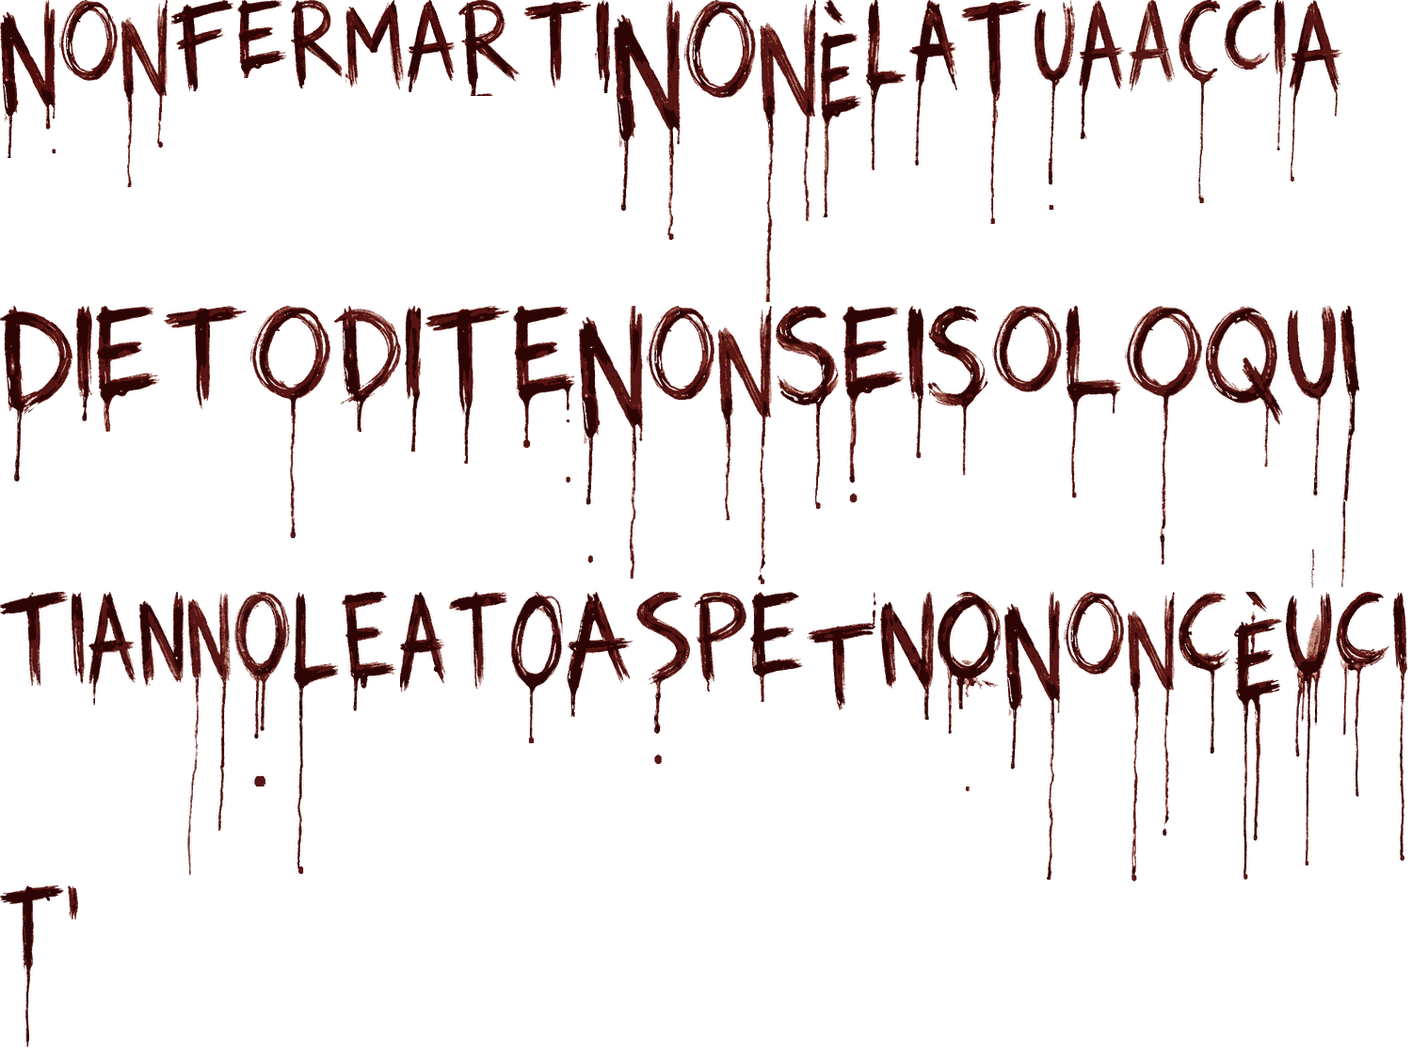
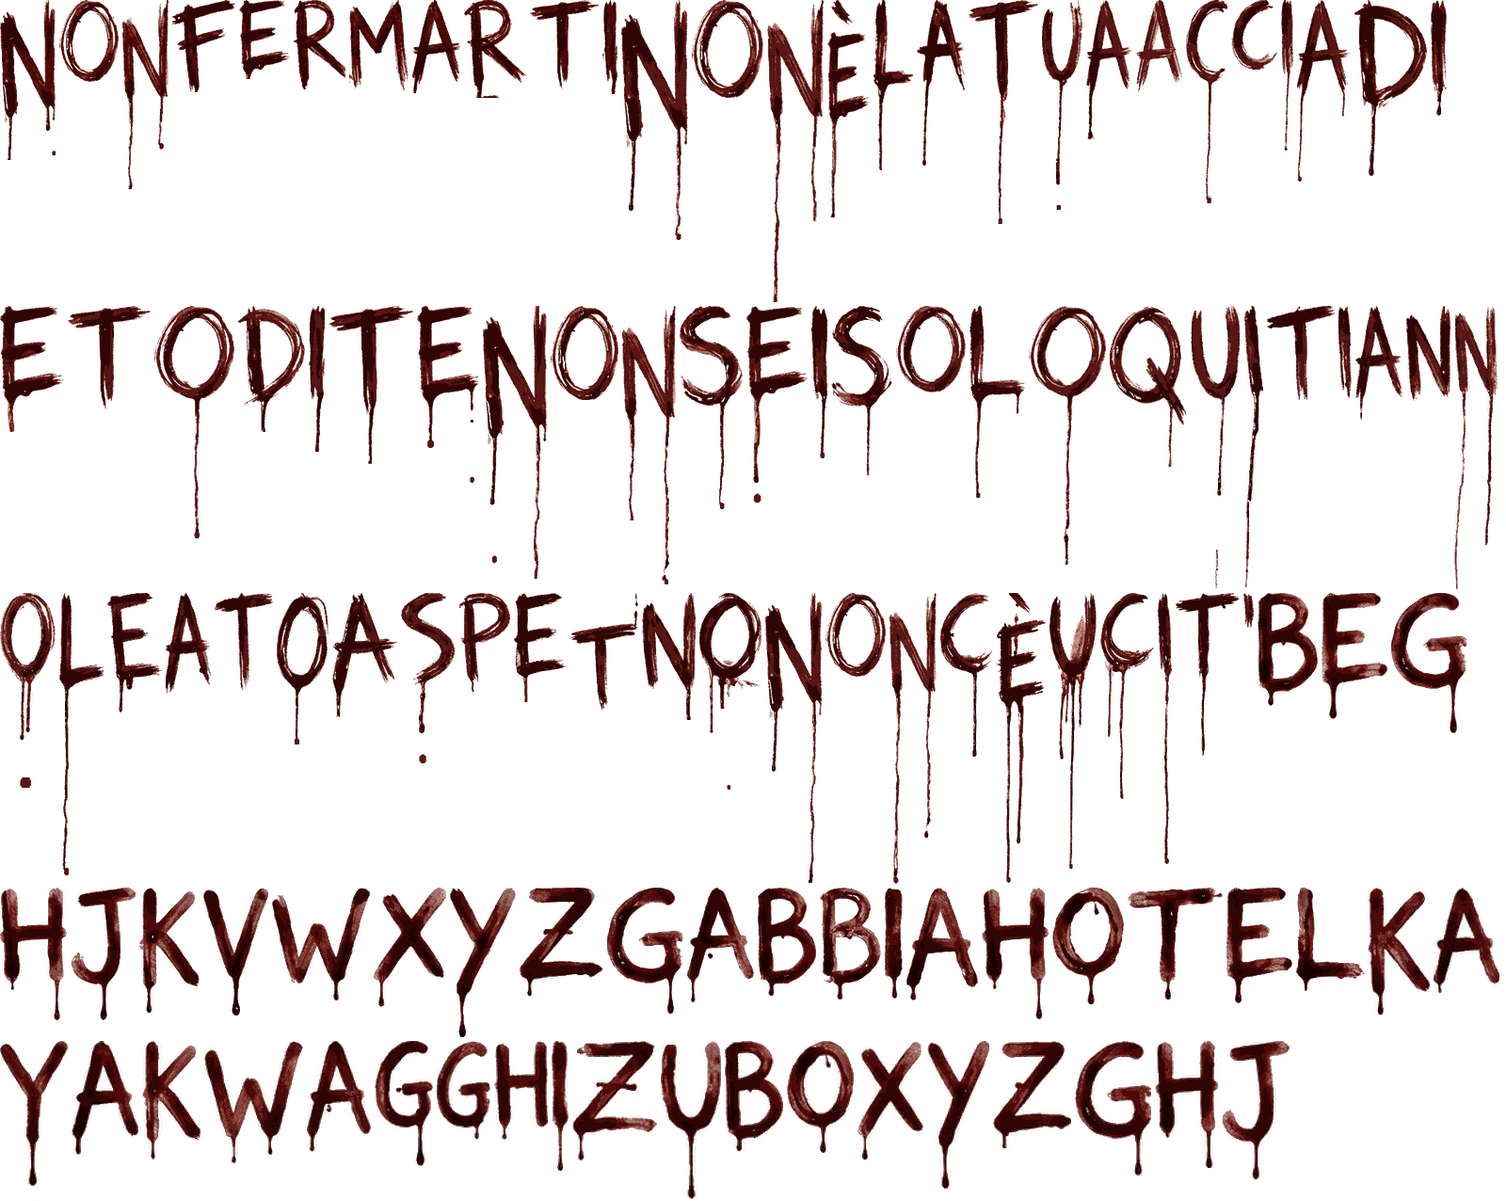
Lettere vere anche per B G H J K V W X Y Z (collage di Gemini): nessuna lettera di riserva
Claude-Session: https://claude.ai/code/session_014dApnh5cQuMdZvTWDcVASP

Changed region(s): [[0.0, 0.183, 1.0, 1.0], [0.0, 0.0, 0.9813, 0.2135], [0.0, 0.4269, 0.0307, 0.4574]]

diff --git a/js/world/bloodfont.js b/js/world/bloodfont.js
@@ -1,9 +1,9 @@
 // FONT DI SANGUE: scrive qualsiasi frase (nome incluso) con lettere VERE di sangue (ritagliate dalle scritte di Gemini della versione standard, con le loro colature naturali,
-// assets/tex/blood_real.png) e, per le lettere che mancano (B G H J K V W X Y Z), con l'alfabeto di riserva assets/tex/blood_font.png. Ogni lettera ha piu' varianti: si sceglie a caso (stabile per ogni testo).
+// assets/tex/blood_real.png) e, per le lettere che mancano (solo la virgola e i simboli), con l'alfabeto di riserva assets/tex/blood_font.png. Ogni lettera ha piu' varianti: si sceglie a caso (stabile per ogni testo).
 // bloodText('NOME,\nNON FERMARTI') -> { tex, aspect }: texture di canvas pronta per writingDecals ({ text }). Per rifare l'atlante: python3 tools/blood_real_glyphs.py
 import * as THREE from 'three';
 const A = {"A":[0,0,98,123,4,104],"B":[140,0,82,111,4,106],"C":[280,0,92,111,4,106],"D":[420,0,87,131,4,104],"E":[560,0,82,138,4,102],"F":[700,0,84,152,4,104],"G":[840,0,102,134,4,105],"H":[0,176,87,132,4,105],"I":[140,176,29,124,4,101],"J":[280,176,88,113,4,107],"K":[420,176,85,136,4,105],"L":[560,176,80,108,4,103],"M":[700,176,104,131,4,103],"N":[840,176,86,124,4,106],"O":[0,352,97,119,4,105],"P":[140,352,82,138,4,102],"Q":[280,352,105,145,4,110],"R":[420,352,91,135,4,106],"S":[560,352,81,147,4,110],"T":[700,352,99,111,4,101],"U":[840,352,88,130,4,104],"V":[0,528,97,130,4,101],"W":[140,528,131,137,4,104],"X":[280,528,89,145,4,103],"Y":[420,528,91,133,4,101],"Z":[560,528,95,153,4,105],"À":[700,528,96,155,4,131],"È":[840,528,79,162,4,128],"É":[0,704,79,154,4,127],"Ì":[140,704,39,136,4,128],"Ò":[280,704,97,167,4,134],"Ù":[420,704,88,131,4,127],"'":[560,704,30,48,4,25],",":[700,704,33,50,4,26],".":[840,704,33,37,4,23],"?":[0,880,72,118,4,109],"!":[140,880,30,115,4,107],"-":[280,880,68,27,4,22],":":[420,880,32,81,4,68],"0":[560,880,85,117,4,103],"1":[700,880,47,126,4,100],"2":[840,880,82,122,4,103],"3":[0,1056,78,123,4,103],"4":[140,1056,81,127,4,100],"5":[280,1056,78,118,4,103],"6":[420,1056,76,127,4,108],"7":[560,1056,80,123,4,97],"8":[700,1056,75,127,4,107],"9":[840,1056,75,126,4,105]};   // riserva: carattere -> [x, y, w, h, top, base]
-const REAL = {"N":[[0,0,59,168,107],[129,0,49,199,103],[652,0,71,255,128],[807,0,60,321,124],[615,325,68,290,121],[763,325,57,296,120],[148,629,47,101,105],[199,629,46,301,98],[1067,629,59,306,119],[1198,629,50,308,116]],"O":[[63,0,62,86,84],[727,0,76,104,100],[266,325,85,247,99],[687,325,72,100,98],[1054,325,74,92,96],[1195,325,82,275,99],[249,629,59,207,96],[543,629,55,161,100],[996,629,67,212,96],[1130,629,64,88,96]],"F":[[182,0,66,97,97]],"E":[[252,0,53,83,83],[102,325,68,134,96],[545,325,66,188,99],[895,325,65,209,99],[363,629,58,127,99],[797,629,56,117,92]],"R":[[309,0,54,94,94],[487,0,65,102,102]],"M":[[367,0,62,95,101]],"A":[[433,0,50,98,98],[966,0,51,176,98],[1146,0,49,148,101],[1199,0,49,98,101],[1370,0,57,193,109],[94,629,50,121,101],[425,629,48,107,102],[602,629,70,133,98],[935,629,57,136,107]],"T":[[556,0,72,94,107],[1021,0,74,238,106],[174,325,88,110,103],[451,325,90,168,106],[0,629,72,100,104],[477,629,62,103,105],[857,629,74,126,124],[0,941,68,172,100]],"I":[[632,0,16,99,99],[1353,0,13,160,96],[81,325,17,123,96],[430,325,17,155,96],[964,325,17,162,99],[1424,325,20,299,97],[76,629,14,98,92],[1480,629,15,286,96]],"È":[[871,0,45,231,129],[1310,629,52,306,122]],"L":[[920,0,42,181,98],[1132,325,59,204,101],[312,629,47,300,102]],"U":[[1099,0,43,223,97],[1367,325,53,300,97],[1366,629,49,291,101]],"C":[[1252,0,44,216,99],[1300,0,49,74,94],[1252,629,54,172,94],[1419,629,57,218,94]],"D":[[0,325,77,187,103],[355,325,71,134,100]],"S":[[824,325,67,216,104],[985,325,65,180,106],[676,629,57,183,95]],"Q":[[1281,325,82,171,100]],"P":[[737,629,56,106,102]],"'":[[72,941,11,37,112]]};   // lettere vere: carattere -> [[x, y, w, h, base], ...] (altezza maiuscola = 100)
+const REAL = {"N":[[0,0,59,170,108],[130,0,49,201,104],[660,0,71,255,128],[815,0,60,321,124],[513,325,68,290,121],[661,325,57,296,120],[1494,325,47,101,105],[1545,325,46,301,98],[813,630,60,308,120],[945,630,50,309,117]],"O":[[63,0,63,87,85],[735,0,76,104,100],[164,325,85,247,99],[585,325,72,100,98],[952,325,74,92,96],[1093,325,82,275,99],[0,630,59,207,96],[294,630,55,161,100],[743,630,66,209,95],[877,630,64,89,97],[1118,943,76,124,97],[836,1106,71,119,95]],"F":[[183,0,67,98,98]],"E":[[254,0,54,84,84],[0,325,68,134,96],[443,325,66,188,99],[793,325,65,209,99],[114,630,58,127,99],[546,630,55,116,91],[1404,630,70,134,97],[1303,943,70,123,99]],"R":[[312,0,55,95,95],[493,0,66,104,104]],"M":[[371,0,63,96,102]],"A":[[438,0,51,99,99],[974,0,51,176,98],[1154,0,49,148,101],[1207,0,49,98,101],[1378,0,57,193,109],[1440,325,50,121,101],[176,630,48,107,102],[353,630,69,132,97],[682,630,57,135,106],[730,943,71,122,99],[963,943,76,120,103],[1523,943,70,112,100],[76,1106,71,121,100],[326,1106,68,118,101]],"T":[[563,0,73,95,108],[1029,0,74,238,106],[72,325,88,110,103],[349,325,90,168,106],[1346,325,72,100,104],[228,630,62,103,105],[605,630,73,124,123],[1249,630,68,173,101],[1198,943,101,119,103]],"I":[[640,0,16,100,100],[1361,0,13,160,96],[1520,0,17,123,96],[328,325,17,155,96],[862,325,17,162,99],[1322,325,20,299,97],[1422,325,14,98,92],[1230,630,15,288,96],[940,943,19,118,95],[586,1106,18,138,94]],"È":[[879,0,45,231,129],[1058,630,53,308,123]],"L":[[928,0,42,181,98],[1030,325,59,204,101],[63,630,47,300,102],[1377,943,72,110,101]],"U":[[1107,0,43,223,97],[1265,325,53,300,97],[1115,630,50,293,102],[702,1106,64,168,97]],"C":[[1260,0,44,216,99],[1308,0,49,74,94],[999,630,55,174,94],[1169,630,57,219,94]],"D":[[1439,0,77,187,103],[253,325,71,134,100]],"S":[[722,325,67,216,104],[883,325,65,180,106],[426,630,57,181,94]],"Q":[[1179,325,82,171,100]],"P":[[487,630,55,105,101]],"'":[[1321,630,11,37,113]],"B":[[1336,630,64,120,99],[805,943,62,115,99],[871,943,65,119,100],[770,1106,62,117,100]],"G":[[1478,630,81,149,102],[645,943,81,134,101],[398,1106,62,133,96],[464,1106,57,104,98],[1142,1106,81,143,104]],"H":[[0,943,71,141,101],[1043,943,71,140,100],[525,1106,57,105,96],[1227,1106,68,135,100]],"J":[[75,943,69,141,99],[1299,1106,71,147,101]],"K":[[148,943,64,133,103],[1453,943,66,135,104],[151,1106,62,126,101]],"V":[[216,943,69,136,95]],"W":[[289,943,104,120,102],[217,1106,105,130,102]],"X":[[397,943,77,127,100],[911,1106,70,126,103]],"Y":[[478,943,70,159,107],[0,1106,72,154,100],[985,1106,66,157,100]],"Z":[[552,943,89,115,100],[608,1106,90,127,97],[1055,1106,83,114,97]]};   // lettere vere: carattere -> [[x, y, w, h, base], ...] (altezza maiuscola = 100)
 const CAP = 100, S = 0.72, LH = 150, SPACE = 46, PAD = 24, TOPPAD = 40, BOT = 190;
 let atlas = null, real = null; const waiting = [];
 const load = (src, set) => { const im = new Image(); im.onload = () => { set(im); if (atlas && real) waiting.splice(0).forEach((f) => f()); }; im.src = src; };

diff --git a/sw.js b/sw.js
@@ -2,8 +2,8 @@
  * - Shell (html/css/js/vendor/icone): precache, cache-first. Nuova versione => nuovo SW "in attesa" => banner nell'app.
  * - Asset pesanti (modelli, texture, audio): cache separata; scaricati in background dopo l'installazione.
  * Le due versioni qui sotto le aggiorna tools/bump.sh a ogni modifica (hash del contenuto): non toccarle a mano. */
-const SHELL_VERSION = 'bdb19479de';   // @shell
-const ASSET_VERSION = '5aa657cd46';   // @assets
+const SHELL_VERSION = 'cb54d3d4fd';   // @shell
+const ASSET_VERSION = '7fdfc36f7d';   // @assets
 const SHELL = 'ng-shell-' + SHELL_VERSION, ASSETS = 'ng-assets-' + ASSET_VERSION;
 const SHELL_FILES = ['./','./css/style.css','./icons/icon-180.png','./icons/icon-192.png','./icons/icon-32.png','./icons/icon-512.png','./icons/maskable-512.png','./index.html','./js/audio/audio.js','./js/events/ambient.js','./js/events/cellar.js','./js/events/combat.js','./js/events/dawn.js','./js/events/door.js','./js/events/glass.js','./js/events/hall.js','./js/events/morgue.js','./js/events/notes.js','./js/events/rats.js','./js/events/scare.js','./js/events/sorella.js','./js/events/tower.js','./js/events/tv.js','./js/events/ward.js','./js/events/warehouse.js','./js/main.js','./js/personal.js','./js/player/controls.js','./js/player/player.js','./js/pwa.js','./js/story.js','./js/ui/instability.js','./js/ui/rgbshift.js','./js/world/atmos.js','./js/world/blood.js','./js/world/bloodfont.js','./js/world/decor.js','./js/world/dust.js','./js/world/extra.js','./js/world/fingerwrite.js','./js/world/lights.js','./js/world/materials.js','./js/world/nun.js','./js/world/props.js','./js/world/redlight.js','./js/world/rooms.js','./js/world/tunnel.js','./manifest.webmanifest','./vendor/three/LICENSE','./vendor/three/Reflector.js','./vendor/three/loaders/GLTFLoader.js','./vendor/three/three.module.min.js','./vendor/three/utils/BufferGeometryUtils.js']; // @shellfiles
 const ASSET_FILES = ['./assets/audio/step0.mp3','./assets/audio/step1.mp3','./assets/audio/step2.mp3','./assets/audio/step3.mp3','./assets/audio/step4.mp3','./assets/models/ammo.glb','./assets/models/axe.glb','./assets/models/bin.glb','./assets/models/c_nurse.glb','./assets/models/c_occ.glb','./assets/models/cabinet.glb','./assets/models/cam.glb','./assets/models/can.glb','./assets/models/cart.glb','./assets/models/chair.glb','./assets/models/door.glb','./assets/models/gate.glb','./assets/models/hlamp.glb','./assets/models/hs_bed.glb','./assets/models/hw_door_1.glb','./assets/models/hw_wheel_chair.glb','./assets/models/kit_cables.glb','./assets/models/kit_fence.glb','./assets/models/kit_gutter.glb','./assets/models/kit_ind.glb','./assets/models/kit_manhole.glb','./assets/models/kit_pipes.glb','./assets/models/lamp.glb','./assets/models/m_bell.glb','./assets/models/m_diver.glb','./assets/models/m_nurse.glb','./assets/models/m_occ.glb','./assets/models/m_pirate.glb','./assets/models/m_root.glb','./assets/models/m_varka.glb','./assets/models/m_whisperer.glb','./assets/models/mg_chair.glb','./assets/models/mg_tool1.glb','./assets/models/mg_tool3.glb','./assets/models/mg_tool4.glb','./assets/models/mg_wall.glb','./assets/models/pistol.glb','./assets/models/rack.glb','./assets/models/rim.glb','./assets/models/seclight.glb','./assets/models/shelf.glb','./assets/models/slamp1.glb','./assets/models/slamp2.glb','./assets/models/sorella.glb','./assets/models/stool.glb','./assets/models/stove.glb','./assets/models/tank.glb','./assets/models/whisperer.glb','./assets/models/wlamp.glb','./assets/models/x_basket.glb','./assets/models/x_bust.glb','./assets/models/x_clock.glb','./assets/models/x_gnome.glb','./assets/models/x_lion.glb','./assets/models/x_micro.glb','./assets/models/x_rat.glb','./assets/models/x_screen.glb','./assets/models/x_spray.glb','./assets/models/x_tv.glb','./assets/models/x_watch.glb','./assets/tex/bath_bg.jpg','./assets/tex/blood_font.png','./assets/tex/blood_real.png','./assets/tex/brick_c.jpg','./assets/tex/brick_n.jpg','./assets/tex/brick_orm.jpg','./assets/tex/floorA_c.jpg','./assets/tex/floorA_n.jpg','./assets/tex/floorA_orm.jpg','./assets/tex/floorB_c.jpg','./assets/tex/floorB_n.jpg','./assets/tex/floorB_orm.jpg','./assets/tex/foot_l.png','./assets/tex/foot_r.png','./assets/tex/hall_bg.jpg','./assets/tex/handA.png','./assets/tex/handC.png','./assets/tex/mg_floor.jpg','./assets/tex/night_bg.jpg','./assets/tex/pic_drawing.jpg','./assets/tex/pic_elisa.jpg','./assets/tex/pic_yana.jpg','./assets/tex/rust_c.jpg','./assets/tex/rust_n.jpg','./assets/tex/rust_orm.jpg','./assets/tex/stone_c.jpg','./assets/tex/stone_n.jpg','./assets/tex/stone_orm.jpg','./assets/tex/ward_ceiling.jpg','./assets/tex/wr_elisa_1.png','./assets/tex/wr_elisa_2.png','./assets/tex/wr_elisa_3.png','./assets/tex/wr_elisa_4.png','./assets/tex/wr_elisa_h.png','./assets/tex/wr_elisa_m.png','./assets/tex/wr_elisa_o.png','./assets/tex/wr_sigil.png','./assets/tex/wr_std_c2.png','./assets/tex/wr_std_h.png','./assets/tex/wr_std_m.png','./assets/tex/wr_std_o.png','./assets/tex/wr_std_t1.png','./assets/tex/wr_std_t3.png','./assets/tex/wr_std_w4.png','./assets/tex/wr_yana_1.png','./assets/tex/wr_yana_2.png','./assets/tex/wr_yana_3.png','./assets/tex/wr_yana_4.png','./assets/tex/wr_yana_h.png','./assets/tex/wr_yana_m.png','./assets/tex/wr_yana_o.png','./assets/tex/wr_yana_soul.png']; // @assetfiles

diff --git a/tools/blood_real_glyphs.py b/tools/blood_real_glyphs.py
@@ -1,87 +1,85 @@
-# Estrae le lettere "vere" (dalle scritte di sangue della versione standard) in un atlante: ogni lettera ha le sue colature naturali. Uso: python3 tools/blood_real_glyphs.py
-import json, numpy as np
+# Estrae le lettere "vere" di sangue (da scritte di Gemini) in un atlante: ogni lettera ha le sue colature naturali.
+# Sorgenti: le 7 scritte della versione standard (assets/tex/wr_std_*.png, gia' con trasparenza) e un collage con le lettere mancanti (B G H J K V W X Y Z).
+# Uso: python3 tools/blood_real_glyphs.py [collage.jpg]   -> assets/tex/blood_real.png + metadati (stampati in real_meta.json nella cartella indicata da META_OUT)
+import json, sys, os, numpy as np
 from PIL import Image
 from scipy import ndimage as ndi
-SRC = {'t1': ['NONFERMARTI'], 't3': ['NONÈLATUAFACCIA'], 'c2': ['DIETRO', 'DITE'], 'w4': ['NONSEISOLO'], 'o': ['QUITIHANNOLEGATO'], 'h': ['TISTAVANO', 'ASPETTANDO'], 'm': ["NONC'ÈUSCITA"]}
-CAP = 100
+META_OUT = os.environ.get('META_OUT', 'real_meta.json'); CAP = 100
+COLLAGE = sys.argv[1] if len(sys.argv) > 1 else None
+STD = {'t1': ['NONFERMARTI'], 't3': ['NONÈLATUAFACCIA'], 'c2': ['DIETRO', 'DITE'], 'w4': ['NONSEISOLO'], 'o': ['QUITIHANNOLEGATO'], 'h': ['TISTAVANO', 'ASPETTANDO'], 'm': ["NONC'ÈUSCITA"]}
+PANELS = [((8, 6, 700, 250), ['BEGH']), ((708, 6, 1400, 250), ['JKVWXYZ']), ((8, 258, 1400, 508), ['GABBIAHOTEL']), ((8, 518, 700, 765), ['KAYAKWAGGHI']), ((708, 518, 1400, 765), ['ZUBOXYZGHJ'])]
+TARGET = np.array([82., 29., 27.])
 glyphs = []
-for k, lines in SRC.items():
-    im = np.asarray(Image.open(f'assets/tex/wr_std_{k}.png').convert('RGBA')); H, W = im.shape[:2]; a = im[:, :, 3] > 100
-    lab, n = ndi.label(a); objs = ndi.find_objects(lab); comps = []
-    for i, sl in enumerate(objs):
-        m = lab[sl] == i + 1; area = int(m.sum())
+
+def process(k, im, lines, minarea=1200):
+    a = im[:, :, 3] > 100; lab, n = ndi.label(a); comps = []
+    for i, sl in enumerate(ndi.find_objects(lab)):
+        area = int((lab[sl] == i + 1).sum())
         if area < 40: continue
         comps.append(dict(i=i + 1, sl=sl, area=area, x0=sl[1].start, x1=sl[1].stop, y0=sl[0].start, y1=sl[0].stop))
-    big = [c for c in comps if c['area'] > 1200]
-    # righe: cluster per centro y dei componenti grandi
-    big.sort(key=lambda c: (c['y0'] + c['y1']) / 2)
-    rows = [[big[0]]]
+    big = [c for c in comps if c['area'] > minarea]
+    if not big: print(k, 'nessun componente'); return
+    big.sort(key=lambda c: (c['y0'] + c['y1']) / 2); medh = np.median([b['y1'] - b['y0'] for b in big]); rows = [[big[0]]]
     for c in big[1:]:
-        ref = np.median([(r['y0'] + r['y1']) / 2 for r in rows[-1]])
-        if (c['y0'] + c['y1']) / 2 - ref > 0.9 * np.median([b['y1'] - b['y0'] for b in big]): rows.append([c])
+        if (c['y0'] + c['y1']) / 2 - np.median([(r['y0'] + r['y1']) / 2 for r in rows[-1]]) > 0.9 * medh: rows.append([c])
         else: rows[-1].append(c)
-    if len(rows) != len(lines): print(k, 'righe', len(rows), 'attese', len(lines)); continue
+    if len(rows) != len(lines): print(k, 'righe', len(rows), 'attese', len(lines)); return
+    nxt = lab.max() + 1
     for row, text in zip(rows, lines):
-        row.sort(key=lambda c: c['x0'])
-        # altezza maiuscola e linea di base: mediana delle cime dei corpi e dei fondi del corpo (fondo del 'corpo' = riga dove la massa crolla)
-        tops = np.median([c['y0'] for c in row]); prof = a[int(tops):, :].sum(1) if False else None
-        sub = np.zeros_like(a); 
-        for c in row: sub[c['sl']] |= (lab[c['sl']] == c['i'])
-        pr = sub.sum(1); thr = pr.max() * 0.3; base = int(np.where(pr > thr)[0].max()) + 1; top = int(np.median([c['y0'] for c in row]))
-        capH = base - top
-        letters = list(text)
-        # componenti piccoli: segni (accento/apice) e gocce
-        small = [c for c in comps if c not in big and c['area'] >= 40]
-        marks = [c for c in small if c['y1'] < top + 0.5 * capH and top - 0.8 * capH < c['y0'] and any(r['x0'] - 30 < (c['x0'] + c['x1']) / 2 < r['x1'] + 30 for r in row)]
-        drips = [c for c in small if c not in marks and c['y0'] >= base - 0.6 * capH and any(r['x0'] - 10 < (c['x0'] + c['x1']) / 2 < r['x1'] + 10 for r in row)]
-        letters_n = len(letters) - (1 if "'" in letters else 0)
-        nxt = lab.max() + 1
+        letters_n = len([c for c in text if c != "'"])
         while len(row) < letters_n:   # lettere attaccate: spezzo il componente piu' largo nel punto piu' sottile
             row.sort(key=lambda c: c['x0']); wmed = np.median([c['x1'] - c['x0'] for c in row]); c = max(row, key=lambda c: c['x1'] - c['x0'])
             if (c['x1'] - c['x0']) < 1.5 * wmed: break
             m = lab[c['sl']] == c['i']; colsum = m.sum(0).astype(float); w = len(colsum); lo, hi = int(w * 0.3), int(w * 0.7); cut = lo + int(np.argmin(colsum[lo:hi]))
-            sub = lab[c['sl']]; left = m.copy(); left[:, cut:] = False; right = m & ~left
-            sub[right] = nxt; lab[c['sl']] = sub
-            ys, xs = np.where(left); cl = dict(i=c['i'], sl=c['sl'], area=int(left.sum()), x0=c['sl'][1].start, x1=c['sl'][1].start + cut, y0=c['sl'][0].start + ys.min(), y1=c['sl'][0].start + ys.max() + 1)
-            ys, xs = np.where(right); cr = dict(i=nxt, sl=c['sl'], area=int(right.sum()), x0=c['sl'][1].start + cut, x1=c['sl'][1].stop, y0=c['sl'][0].start + ys.min(), y1=c['sl'][0].start + ys.max() + 1); nxt += 1
+            sub = lab[c['sl']]; left = m.copy(); left[:, cut:] = False; right = m & ~left; sub[right] = nxt; lab[c['sl']] = sub
+            ys, _ = np.where(left); cl = dict(i=c['i'], sl=c['sl'], area=int(left.sum()), x0=c['sl'][1].start, x1=c['sl'][1].start + cut, y0=c['sl'][0].start + ys.min(), y1=c['sl'][0].start + ys.max() + 1)
+            ys, _ = np.where(right); cr = dict(i=nxt, sl=c['sl'], area=int(right.sum()), x0=c['sl'][1].start + cut, x1=c['sl'][1].stop, y0=c['sl'][0].start + ys.min(), y1=c['sl'][0].start + ys.max() + 1); nxt += 1
             row.remove(c); row += [cl, cr]
         row.sort(key=lambda c: c['x0'])
+        L = [c for c in text if c != "'"]
         if len(row) != letters_n: print(k, text, 'lettere', len(row), 'attese', letters_n, '-> salto riga'); continue
-        # assegna i segni
-        mk = sorted(marks, key=lambda c: c['x0'])
-        # apostrofo = segno lontano da qualunque corpo (tra due lettere)
-        glyph_ids = {}
-        L = [c for c in letters if c != "'"]
-        for idx, c in enumerate(row): glyph_ids[idx] = [c['i']]
-        apo = None
-        for m in mk:
+        sub = np.zeros_like(a)
+        for c in row: sub[c['sl']] |= (lab[c['sl']] == c['i'])
+        pr = sub.sum(1); base = int(np.where(pr > pr.max() * 0.3)[0].max()) + 1; top = int(np.median([c['y0'] for c in row])); capH = base - top
+        small = [c for c in comps if c not in big and c['area'] >= 40]; ids = set(c['i'] for c in row)
+        marks = [c for c in small if c['y1'] < top + 0.5 * capH and top - 0.8 * capH < c['y0'] and any(r['x0'] - 30 < (c['x0'] + c['x1']) / 2 < r['x1'] + 30 for r in row)]
+        drips = [c for c in small if c not in marks and c['y0'] >= base - 0.6 * capH and any(r['x0'] - 10 < (c['x0'] + c['x1']) / 2 < r['x1'] + 10 for r in row)]
+        gid = {i: [c['i']] for i, c in enumerate(row)}; apo = None
+        for m in sorted(marks, key=lambda c: c['x0']):
             cx = (m['x0'] + m['x1']) / 2; inside = [j for j, r in enumerate(row) if r['x0'] - 5 <= cx <= r['x1'] + 5]
-            if inside and "'" not in letters or (inside and L[inside[0]] == 'È' and True):
-                glyph_ids[inside[0]].append(m['i'])
-            else:
-                apo = m
+            if inside and ("'" not in text or L[inside[0]] == 'È'): gid[inside[0]].append(m['i'])
+            else: apo = m
         for d in drips:
-            cx = (d['x0'] + d['x1']) / 2; j = min(range(len(row)), key=lambda j: abs((row[j]['x0'] + row[j]['x1']) / 2 - cx)); glyph_ids[j].append(d['i'])
-        def crop(ids, ch):
-            mask = np.isin(lab, ids); ys, xs = np.where(mask); y0, y1, x0, x1 = ys.min(), ys.max() + 1, xs.min(), xs.max() + 1
+            cx = (d['x0'] + d['x1']) / 2; j = min(range(len(row)), key=lambda j: abs((row[j]['x0'] + row[j]['x1']) / 2 - cx)); gid[j].append(d['i'])
+        def crop(idl, ch):
+            mask = np.isin(lab, idl); ys, xs = np.where(mask); y0, y1, x0, x1 = ys.min(), ys.max() + 1, xs.min(), xs.max() + 1
             rgba = im[y0:y1, x0:x1].copy(); rgba[:, :, 3] = np.where(mask[y0:y1, x0:x1], rgba[:, :, 3], 0)
             glyphs.append(dict(ch=ch, img=rgba, base=base - y0, cap=capH, src=k))
-        for j, ch in enumerate(L): crop(glyph_ids[j], ch)
+        for j, ch in enumerate(L): crop(gid[j], ch)
         if apo is not None: crop([apo['i']], "'")
+
+for k, lines in STD.items(): process(k, np.asarray(Image.open(f'assets/tex/wr_std_{k}.png').convert('RGBA')), lines)
+if COLLAGE:
+    full = np.asarray(Image.open(COLLAGE).convert('RGB')).astype(float)
+    for n, ((x0, y0, x1, y1), lines) in enumerate(PANELS):
+        p = full[y0 + 4:y1 - 4, x0 + 4:x1 - 4]; bg = np.median(p.reshape(-1, 3), axis=0); lum = p.mean(2); red = p[:, :, 0] - (p[:, :, 1] + p[:, :, 2]) / 2
+        al = np.clip(np.maximum((bg.mean() - lum) / 70, (red - 25) / 60), 0, 1); al = np.clip((al - 0.12) / 0.88, 0, 1)
+        m = al > 0.3; mean = p[m].mean(0); rgb = np.clip(p * (TARGET / mean), 0, 255)   # colore uniformato alla versione standard
+        rgb = np.where((al > 0)[..., None], rgb, 0)
+        process(f'col{n}', np.dstack([rgb, al * 255]).astype('uint8'), lines, minarea=900)
 print(len(glyphs), 'glifi')
-# atlante: righe di glifi alla scala della maiuscola = CAP
-tiles = []; 
+DROP = {('A', 9), ('D', 2), ('T', 7), ('R', 2), ('F', 1), ('S', 3), ('N', 8)}; DROP_ALL = {'G', 'H'} if not COLLAGE else set()
+# i glifi di riserva sono scartati se vengono dalle sorgenti standard (G/H spezzati): con il collage si usano quelli del collage
+tiles = []
 for g in glyphs:
     s = CAP / g['cap']; im = Image.fromarray(g['img'], 'RGBA'); im = im.resize((max(1, round(im.width * s)), max(1, round(im.height * s))), Image.LANCZOS); tiles.append((g, im, round(g['base'] * s)))
-DROP = {('A', 9), ('D', 2), ('T', 7), ('R', 2), ('F', 1), ('S', 3), ('N', 8)}; DROP_ALL = {'G', 'H'}   # glifi scartati dopo il controllo a occhio (spezzati o scambiati)
-SW = 1500; x = y = rowh = 0; meta = {}; cnt = {}; sheet = Image.new('RGBA', (SW, 2400), (0, 0, 0, 0))
+SW = 1600; x = y = rowh = 0; meta = {}; cnt = {}; sheet = Image.new('RGBA', (SW, 3600), (0, 0, 0, 0))
 for g, im, base in tiles:
     n_ = cnt.get(g['ch'], 0); cnt[g['ch']] = n_ + 1
-    if g['ch'] in DROP_ALL or (g['ch'], n_) in DROP: continue
+    if g['src'] in STD and (g['ch'] in {'G', 'H'} or (g['ch'], n_) in DROP): continue
     if x + im.width + 4 > SW: x = 0; y += rowh + 4; rowh = 0
     sheet.alpha_composite(im, (x, y)); meta.setdefault(g['ch'], []).append([x, y, im.width, im.height, base]); x += im.width + 4; rowh = max(rowh, im.height)
 sheet = sheet.crop((0, 0, SW, y + rowh + 2)); print(sheet.size)
 sheet.quantize(colors=128, method=Image.FASTOCTREE, dither=0).save('assets/tex/blood_real.png', optimize=True)
-json.dump(meta, open('/tmp/claude-0/-home-user-Horror/c170a066-e707-5d63-832a-75c0ce676129/scratchpad/real_meta.json', 'w'), ensure_ascii=False)
+json.dump(meta, open(META_OUT, 'w'), ensure_ascii=False)
 print({c: len(v) for c, v in sorted(meta.items())})
-bg = Image.new('RGBA', sheet.size, (60, 50, 46, 255)); bg.alpha_composite(sheet); bg.convert('RGB').save('/tmp/claude-0/-home-user-Horror/c170a066-e707-5d63-832a-75c0ce676129/scratchpad/real_sheet.png')
